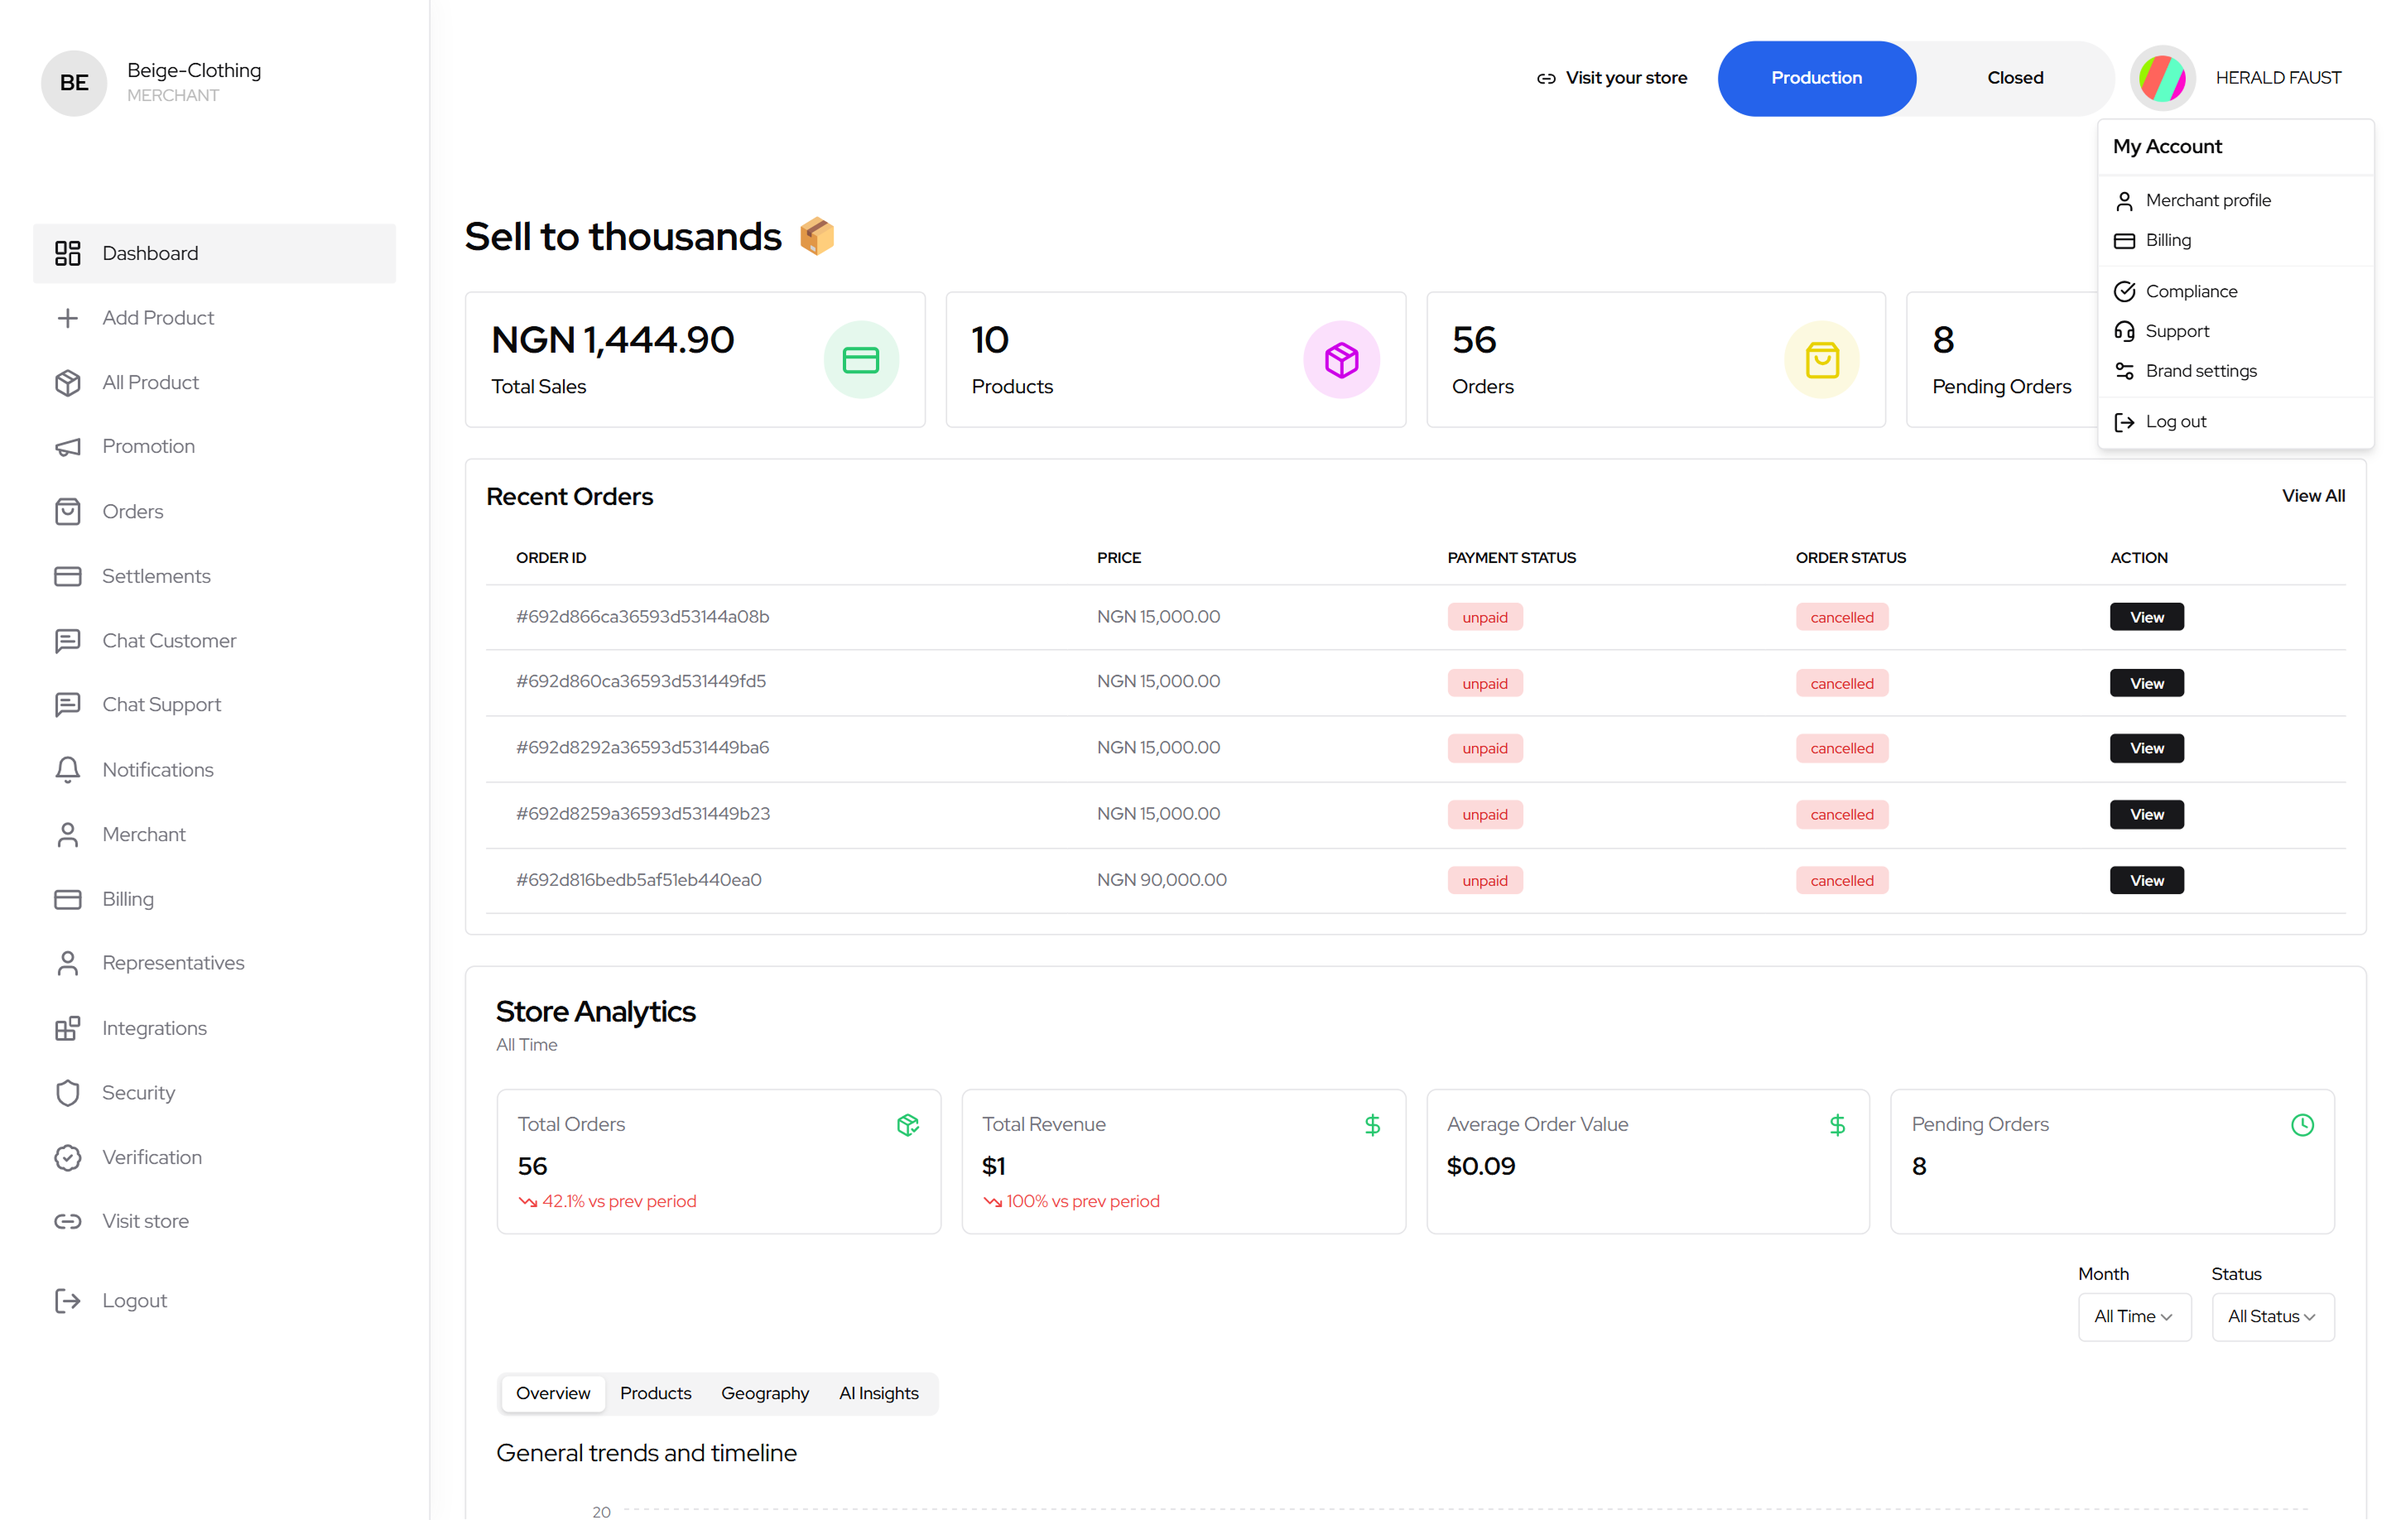
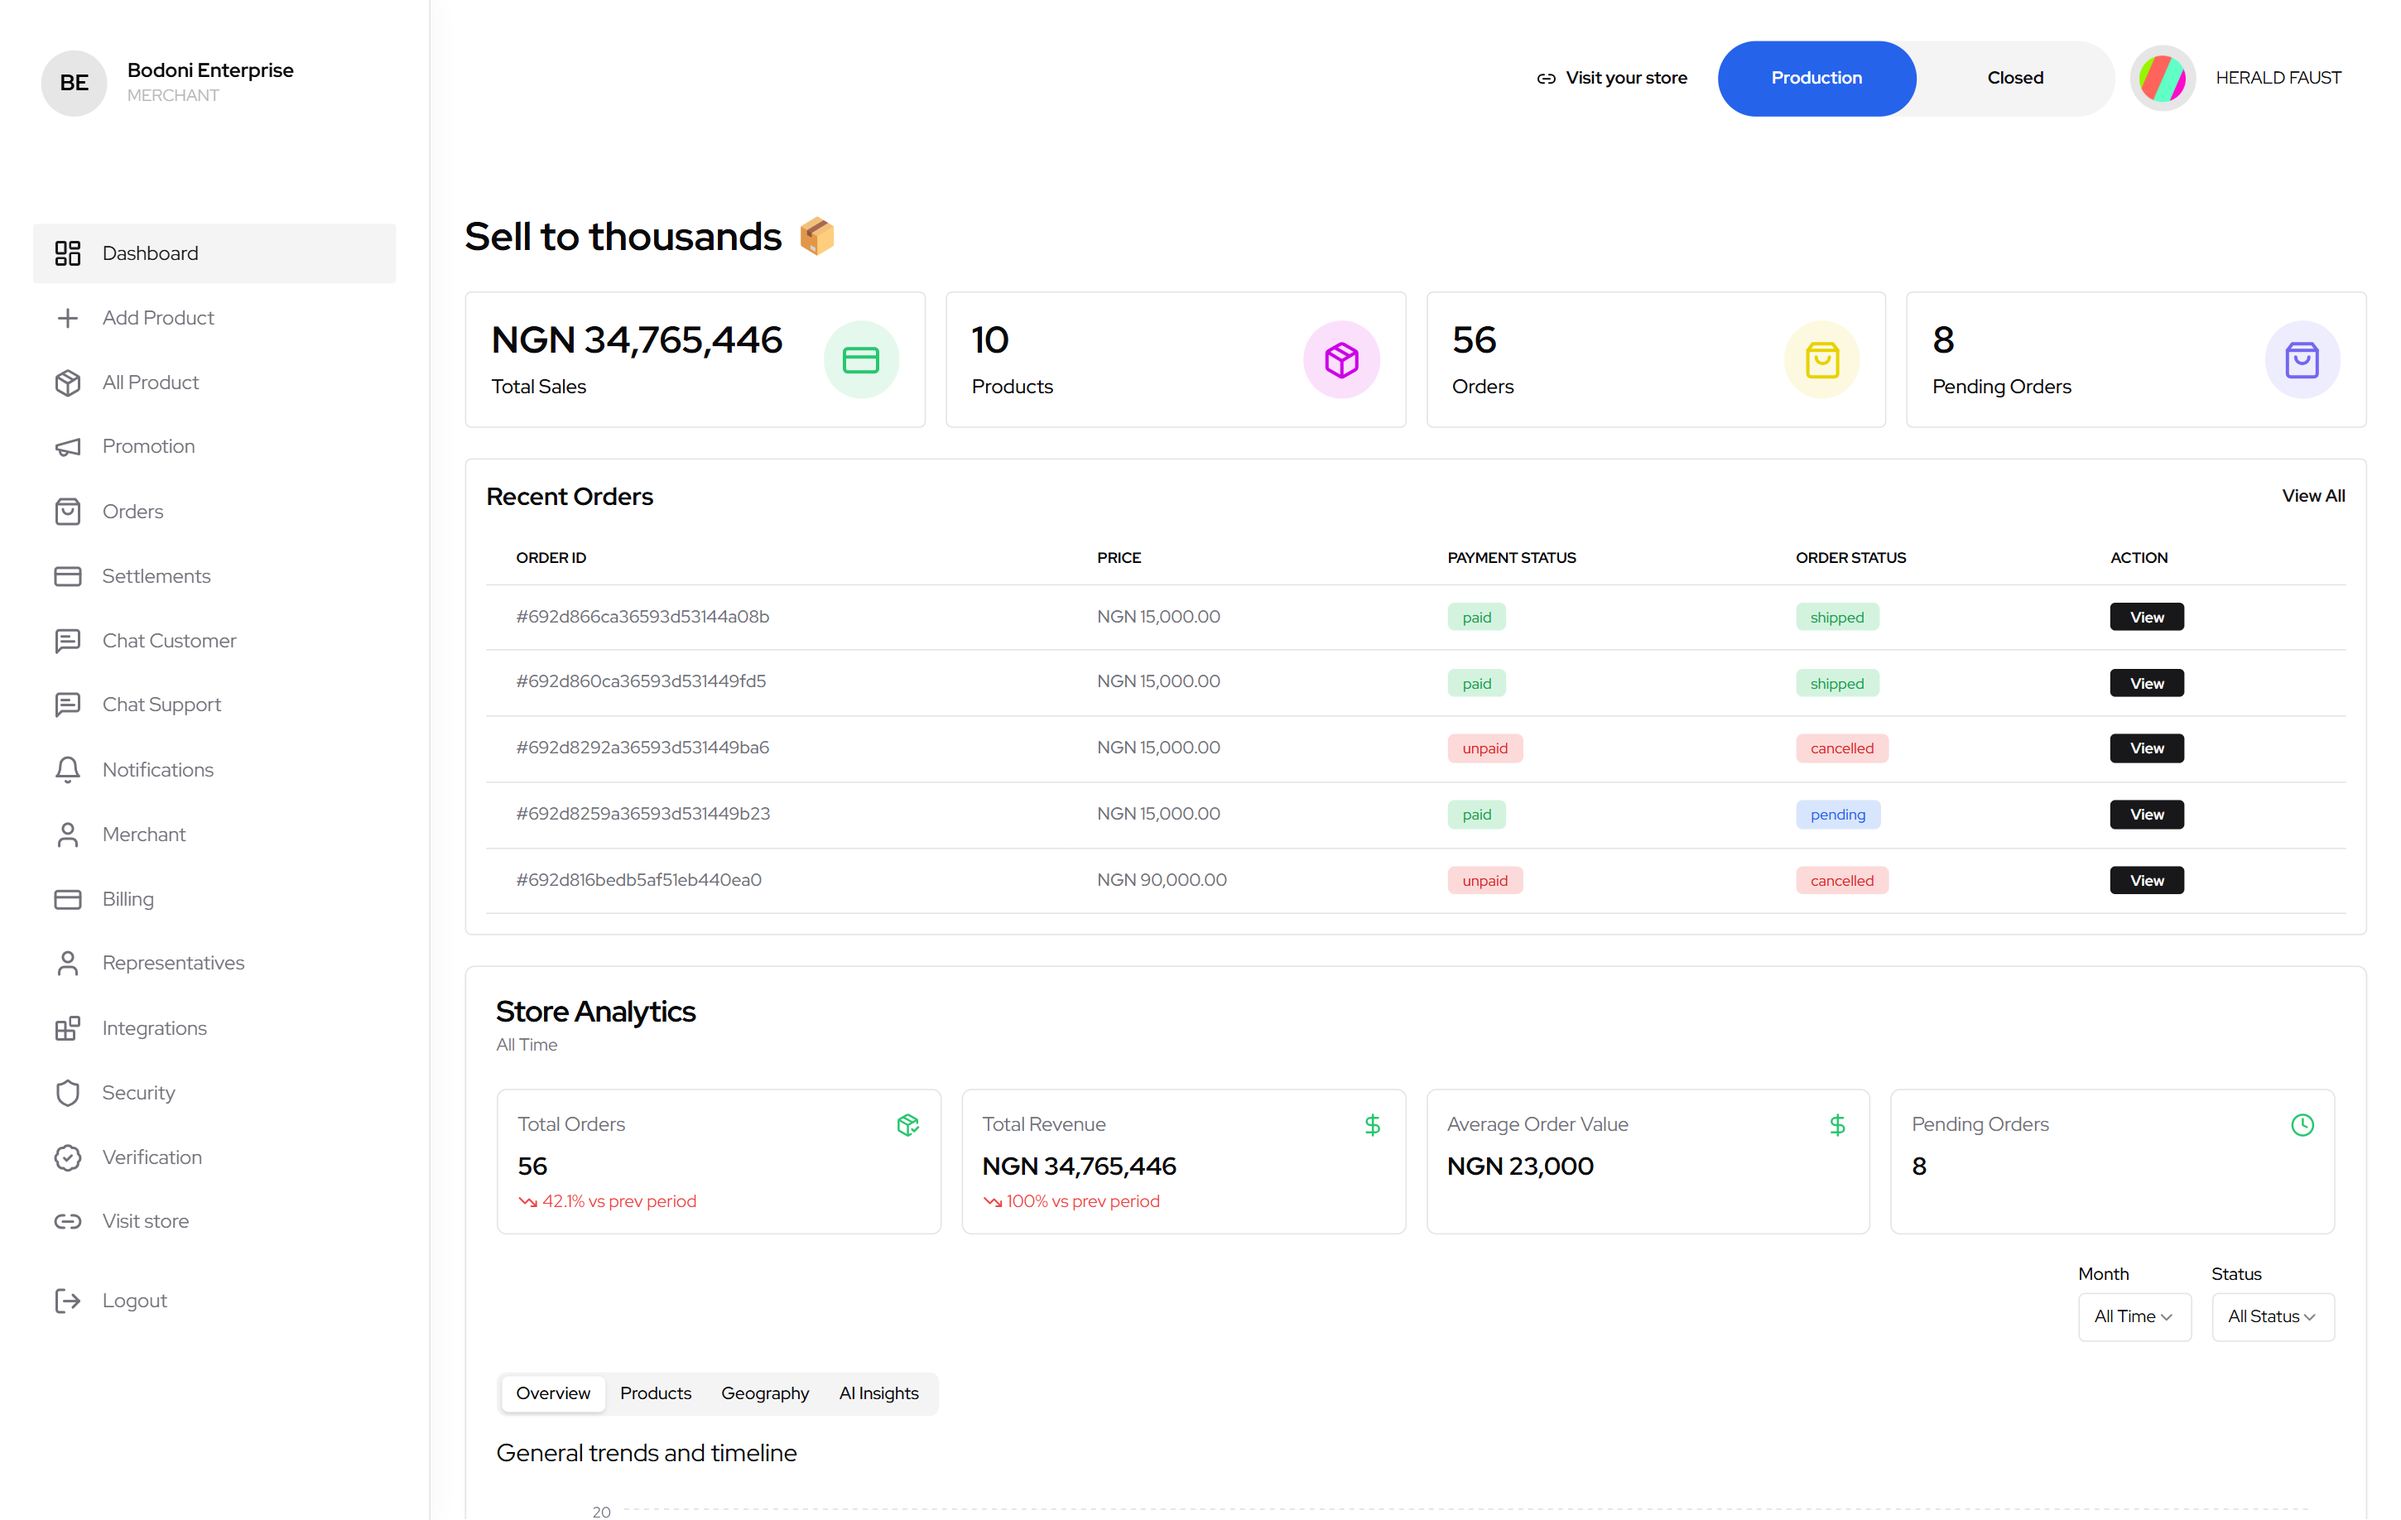
changes\

diff --git a/public/css/mypurse.css b/public/css/mypurse.css
@@ -166,24 +166,12 @@ body {
 
 .mp_intro_2 img {
   position: absolute;
-  transition: transform 0.8s cubic-bezier(0.2, 0.8, 0.2, 1);
+  transition: transform 0.8s cubic-bezier(0.2, 0.8, 0.2, 1), opacity 0.8s ease;
   opacity: 0;
 }
 
 .mp_intro_2 img.active {
   opacity: 1;
-}
-
-.mp_intro_2 img.main-image {
-  width: 100%;
-  height: auto;
-  top: -45%;
-  right: 0;
-  transform: rotate(-20deg) translateY(40px);
-}
-
-.mp_intro_2 img.main-image.active {
-  transform: rotate(-20deg) translateY(0);
 }
 
 .mp_intro_2 img.store-image {
@@ -196,19 +184,6 @@ body {
 
 .mp_intro_2 img.store-image.active {
   transform: translateX(15%) translateY(0);
-}
-
-.mp_intro_2 img.tilted {
-  top: -45%;
-  transform: rotate(-20deg);
-}
-
-.mp_intro_2 img.normal {
-  top: 0;
-  transform: translateX(20%);
-  width: auto;
-  height: 100%;
-  right: 0;
 }
 
 .x09 h1 {
@@ -650,17 +625,7 @@ footer {
     transform: translateY(0) !important;
   }
   
-  .mp_intro_2 img.tilted {
-    top: -20% !important;
-    transform: rotate(20deg);
-  }
 
-  .mp_intro_2 img.normal {
-    top: 10% !important;
-    transform: none;
-    width: 90% !important;
-    right: 5% !important;
-  }
   .mp_intro_102 img {
     width: 100px;
     height: auto;

diff --git a/index.html b/index.html
@@ -306,8 +306,9 @@ Mypursepay is an embedded commercial platform for individuals, businesses, and i
           <small>Registered (Company No. 7805208)</small>
         </div>
         <div class="mp_intro_2">
-          <img src="public/resource/pursemain.png" class="main-image active" alt="" />
-          <img src="public/resource/storeimage.png" class="store-image" alt="" />
+          <img src="public/resource/storeimage.png" class="store-image active" alt="" />
+          <img src="public/resource/storeimage_two.png" class="store-image" alt="" />
+          <img src="public/resource/storeimage_three.png" class="store-image" alt="" />
         </div>
         <script>
           document.addEventListener("DOMContentLoaded", () => {
@@ -661,7 +662,7 @@ if (document.readyState === 'loading') {
 
       <section class="mp_sec mp_fourth">
         <div class="mp_sec_1 x10">
-          <img src="public/resource/storescale.png" alt="" />
+          <img src="public/resource/pursemain.png" alt="" />
         </div>
         <div class="mp_intro_1">
           <div class="mp_intro_101 x09">
